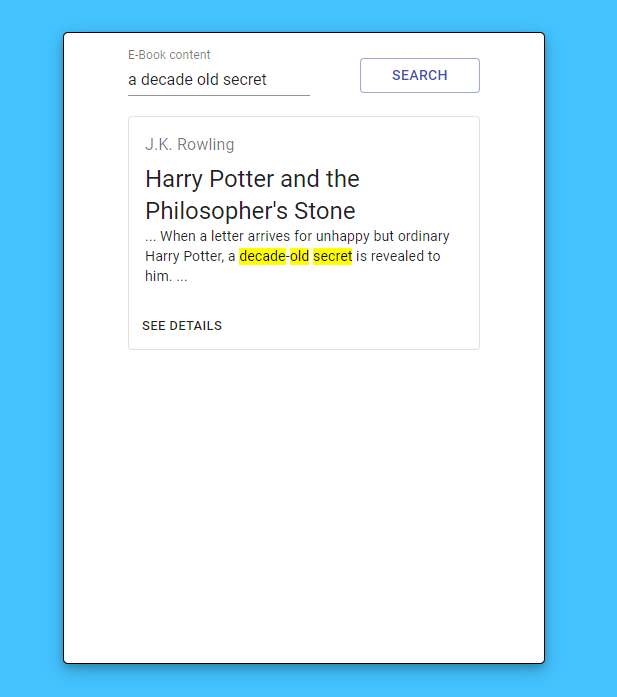
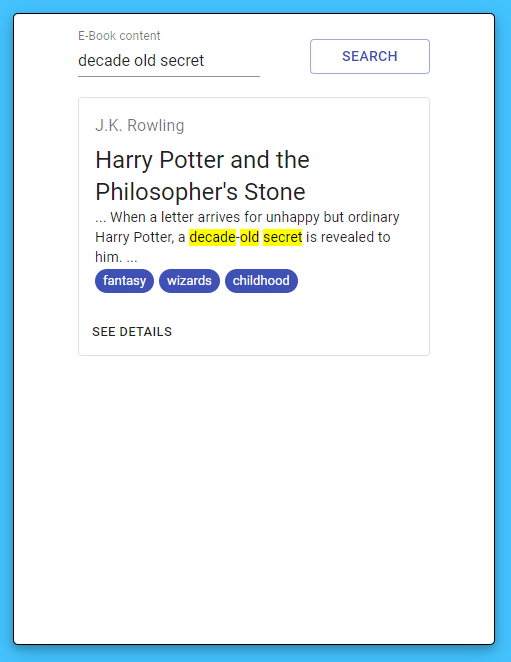
Add keywords

Changed region(s): [[0.0, 0.0, 0.998, 0.997], [0.1761, 0.1813, 0.7926, 0.5136]]

diff --git a/EBook.Web/src/components/ebook/index.js b/EBook.Web/src/components/ebook/index.js
@@ -4,12 +4,15 @@ import CardActions from '@material-ui/core/CardActions';
 import CardContent from '@material-ui/core/CardContent';
 import Button from '@material-ui/core/Button';
 import Typography from '@material-ui/core/Typography';
+import Chip from '@material-ui/core/Chip';
 import Highlighter from 'react-highlight-words';
 
 import './index.css';
 
 const EBook = ({ eBook }) => {
-  const { author, title, highlights } = eBook;
+  const { author, title, highlights, keywords } = eBook;
+
+  console.log(keywords);
 
   const highlightedContent = highlights["file.content"][0];
   const content = highlightedContent.replace(/<\/?strong>/g, '');
@@ -32,6 +35,10 @@ const EBook = ({ eBook }) => {
             textToHighlight={`... ${content} ...`}
           />
         </Typography>
+        {
+          keywords.split(' ').map(keyword => 
+          <Chip key={keyword} color="primary" size="small" label={keyword} style={{ marginRight: 5 }} />)
+        }
       </CardContent>
       <CardActions>
         <Button size="small">See details</Button>
